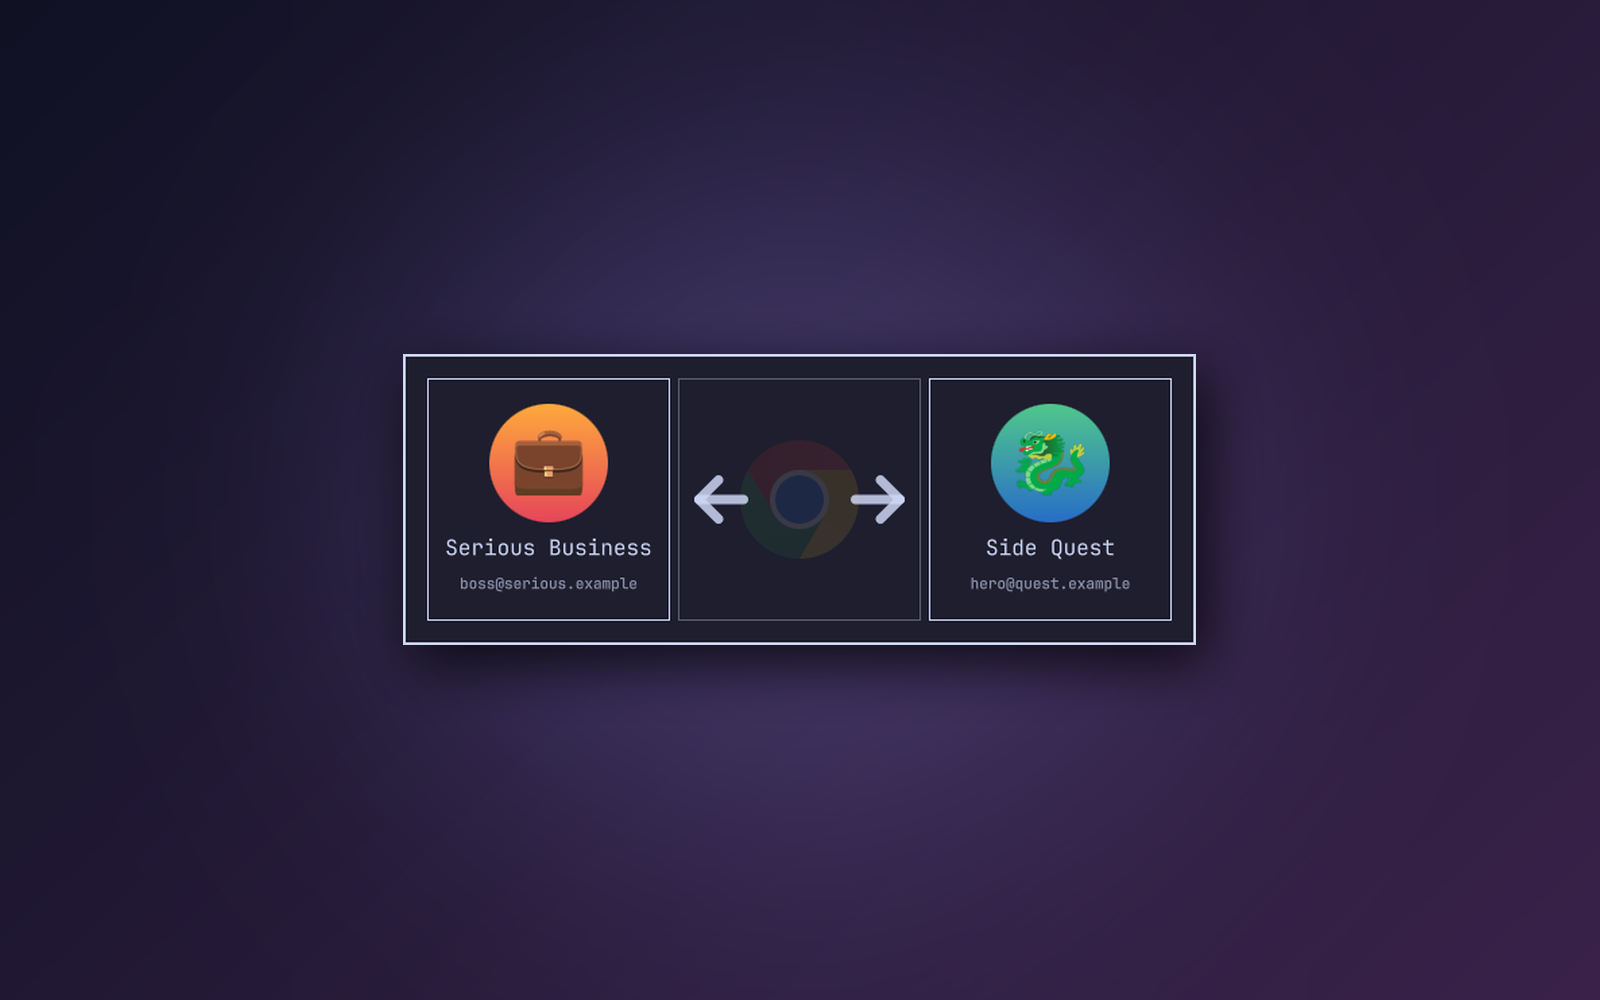
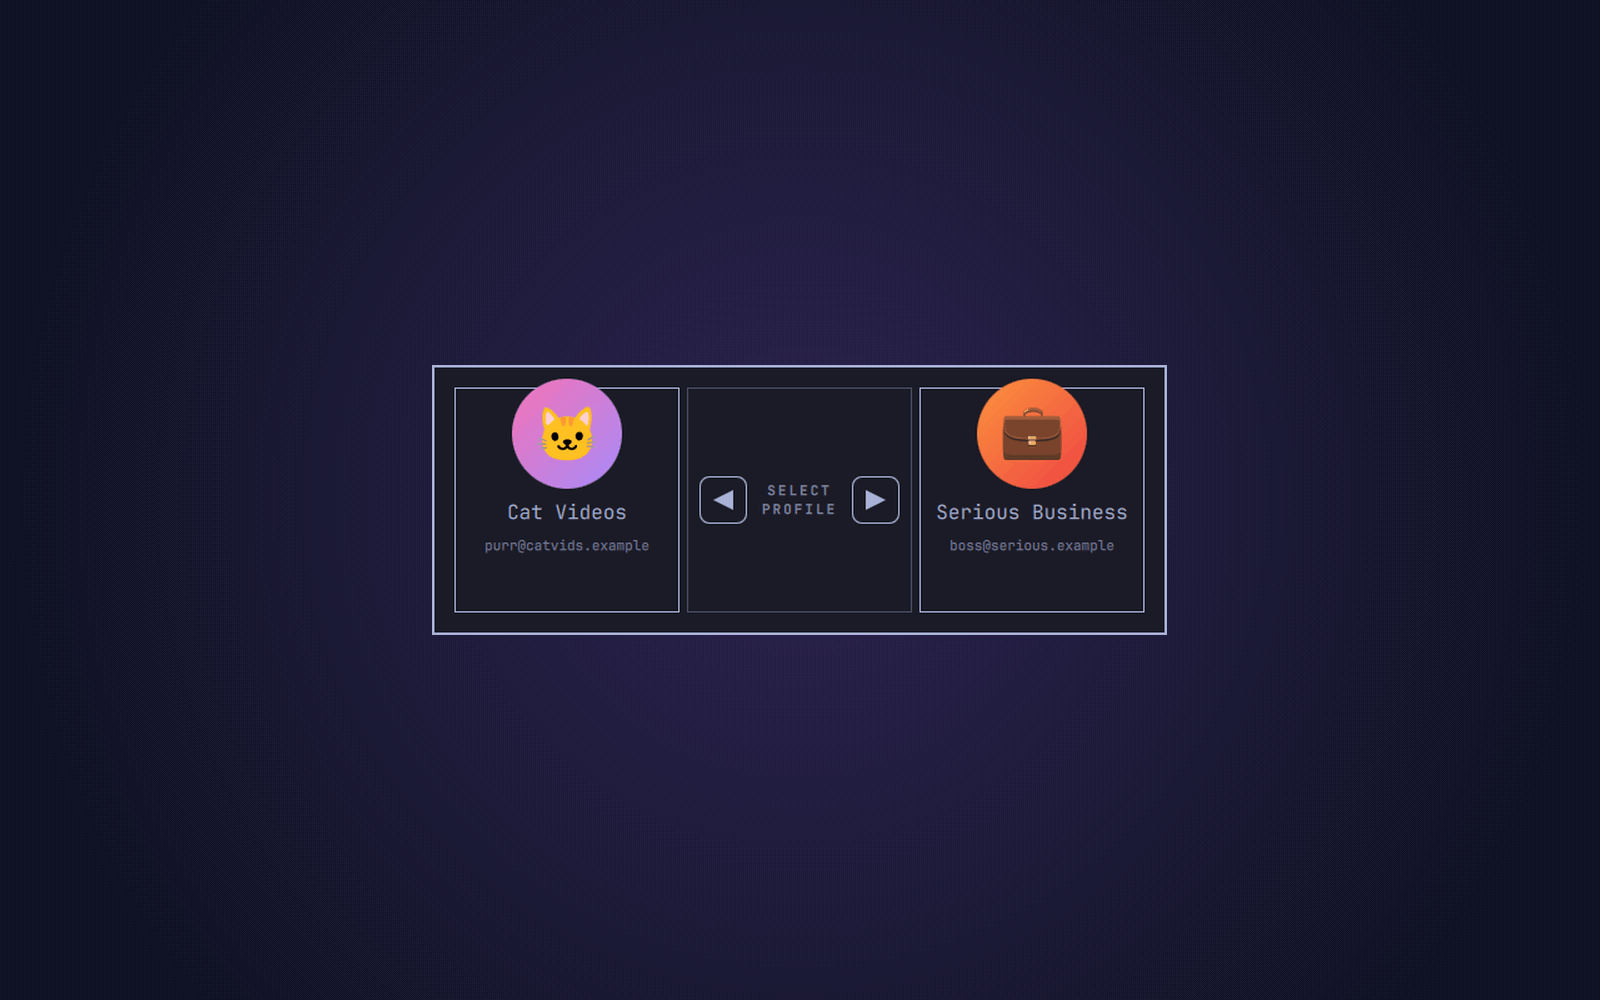
Screenshots: the new picker, plus the numbered row
Retaken for the label-and-keycap centre and the row layout: 2, 3 and 4
profiles as before, and a new 6-profile row shot referenced from the README.
Same original gradient background and made-up profiles with emoji avatars.

diff --git a/README.md b/README.md
@@ -28,6 +28,10 @@ A plugin for the [Omarchy](https://omarchy.org) shell.
 |---|---|
 | ![Three profiles](screenshots/3-profiles.png) | ![Four profiles](screenshots/4-profiles.png) |
 
+With five or more, the profiles line up in a numbered row:
+
+![Six profiles in a row](screenshots/6-profiles.png)
+
 ## Install
 
 ```bash
